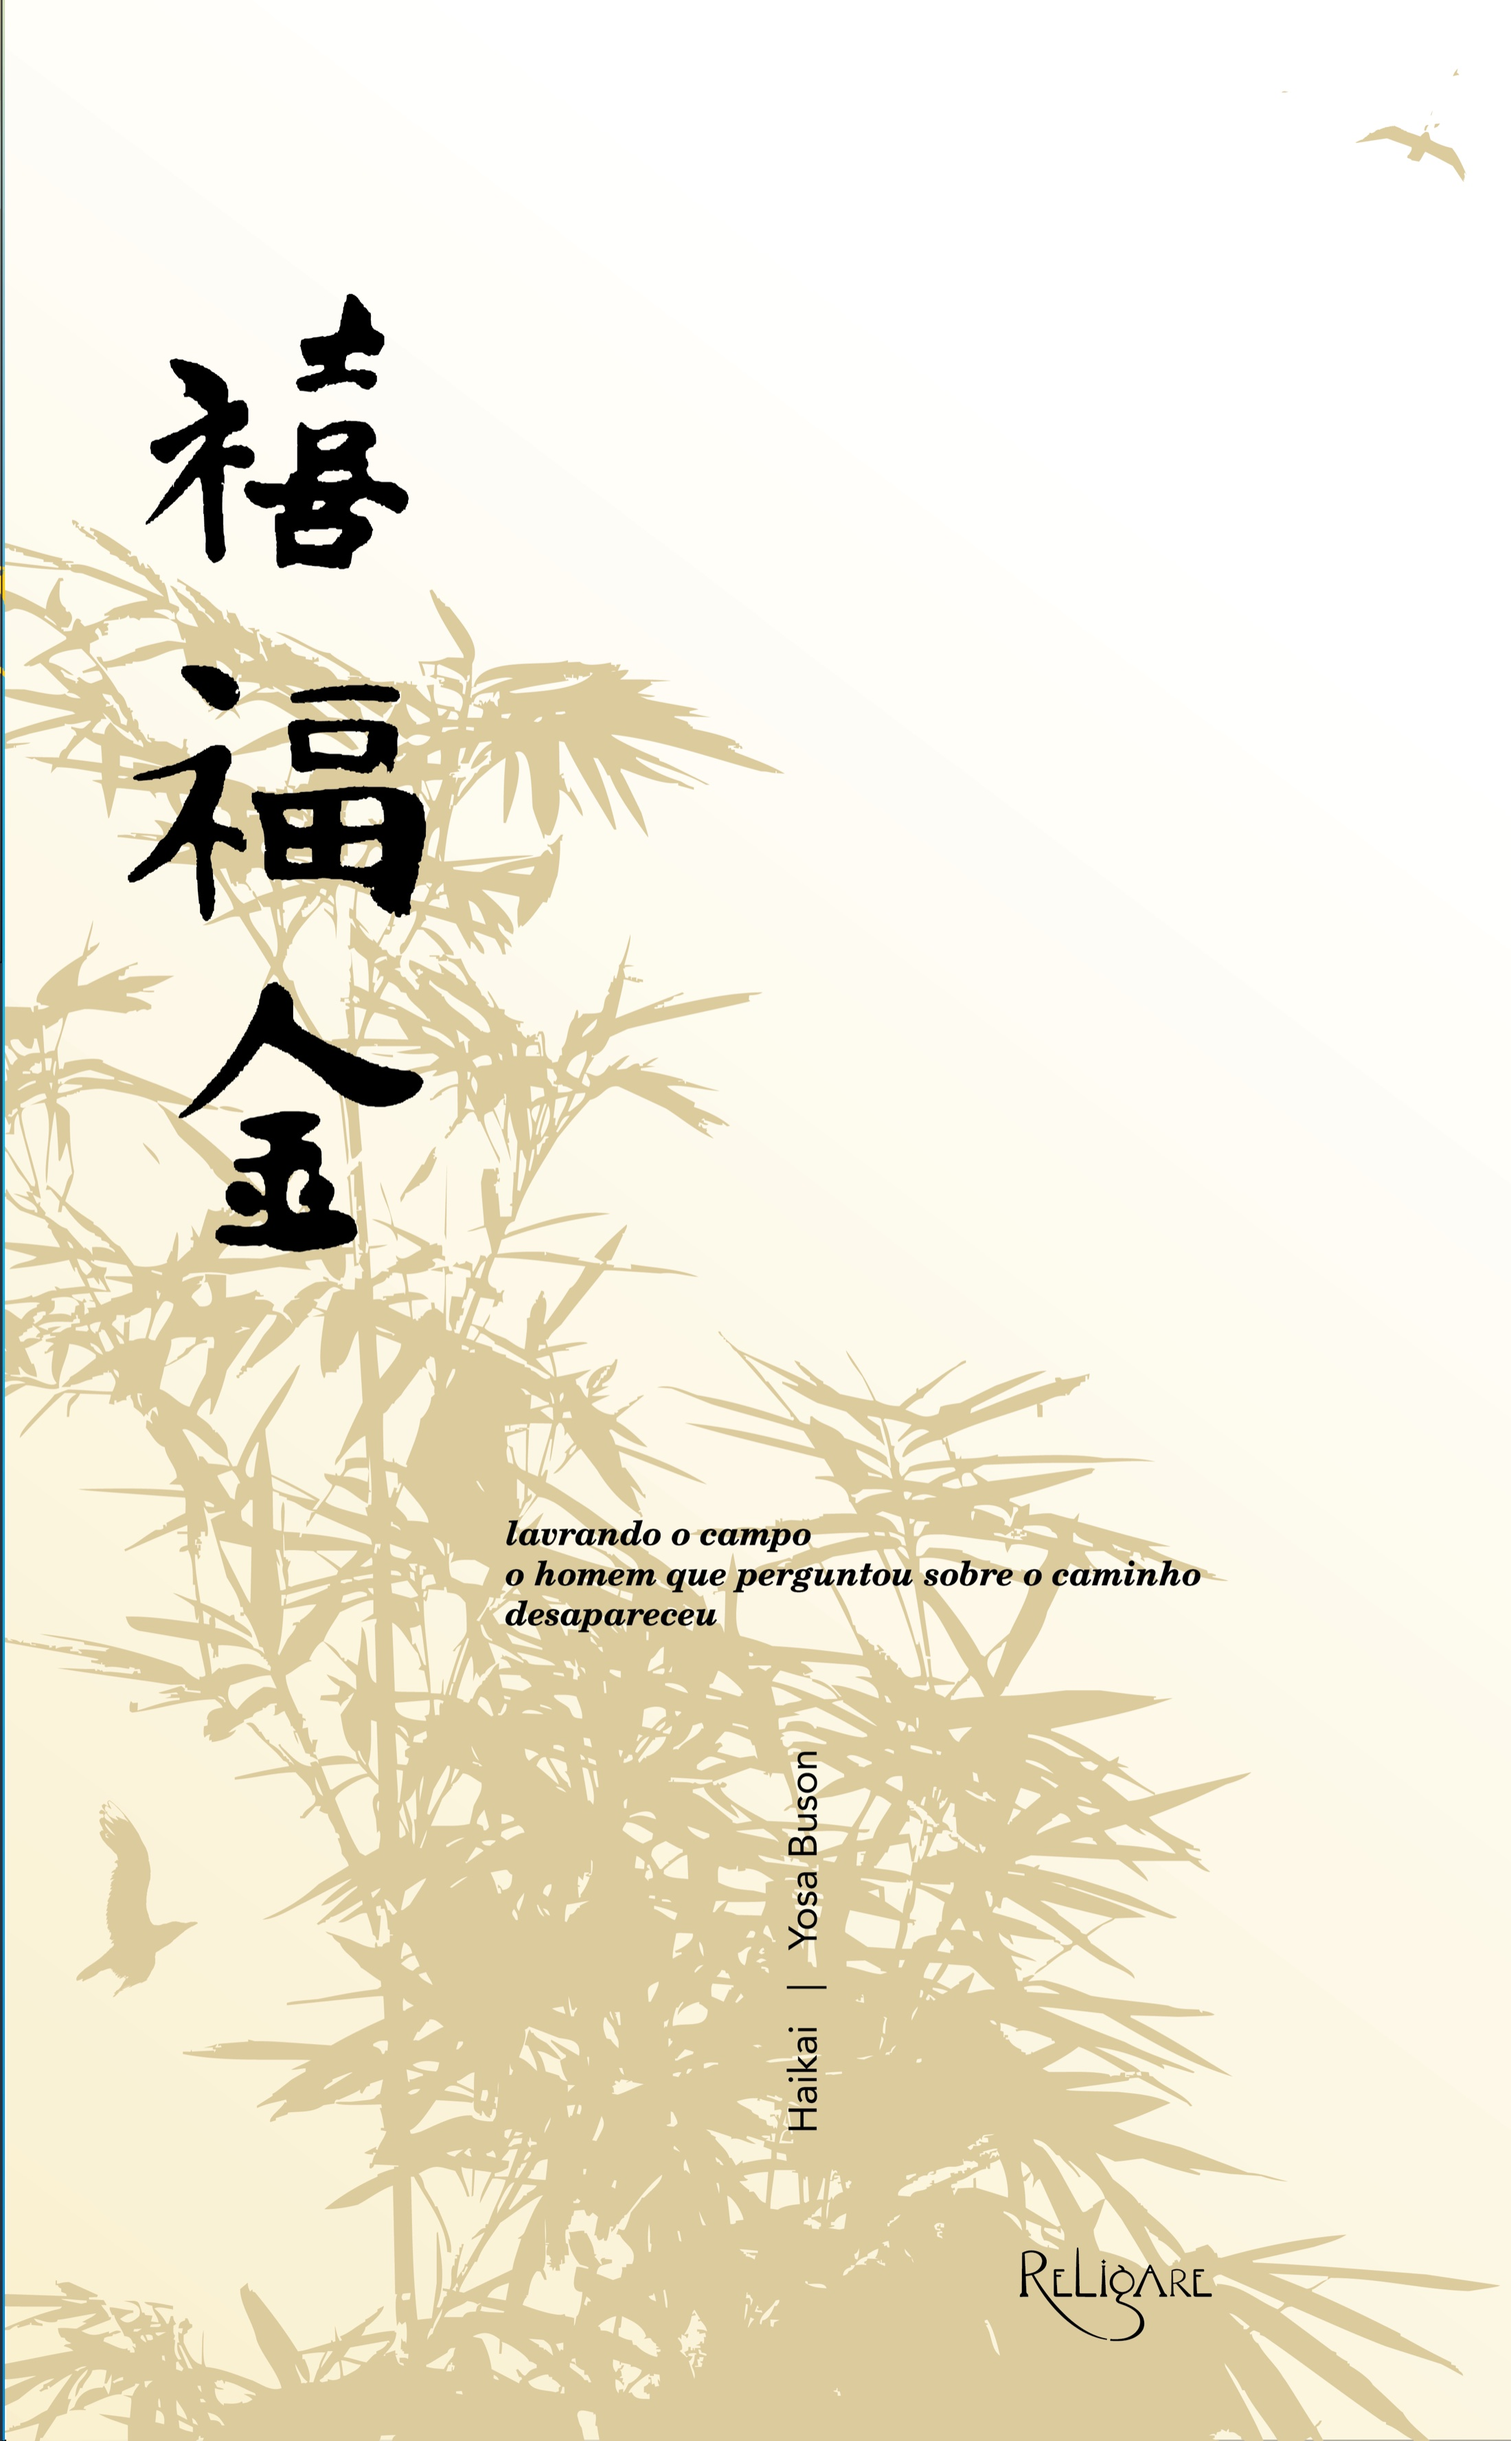
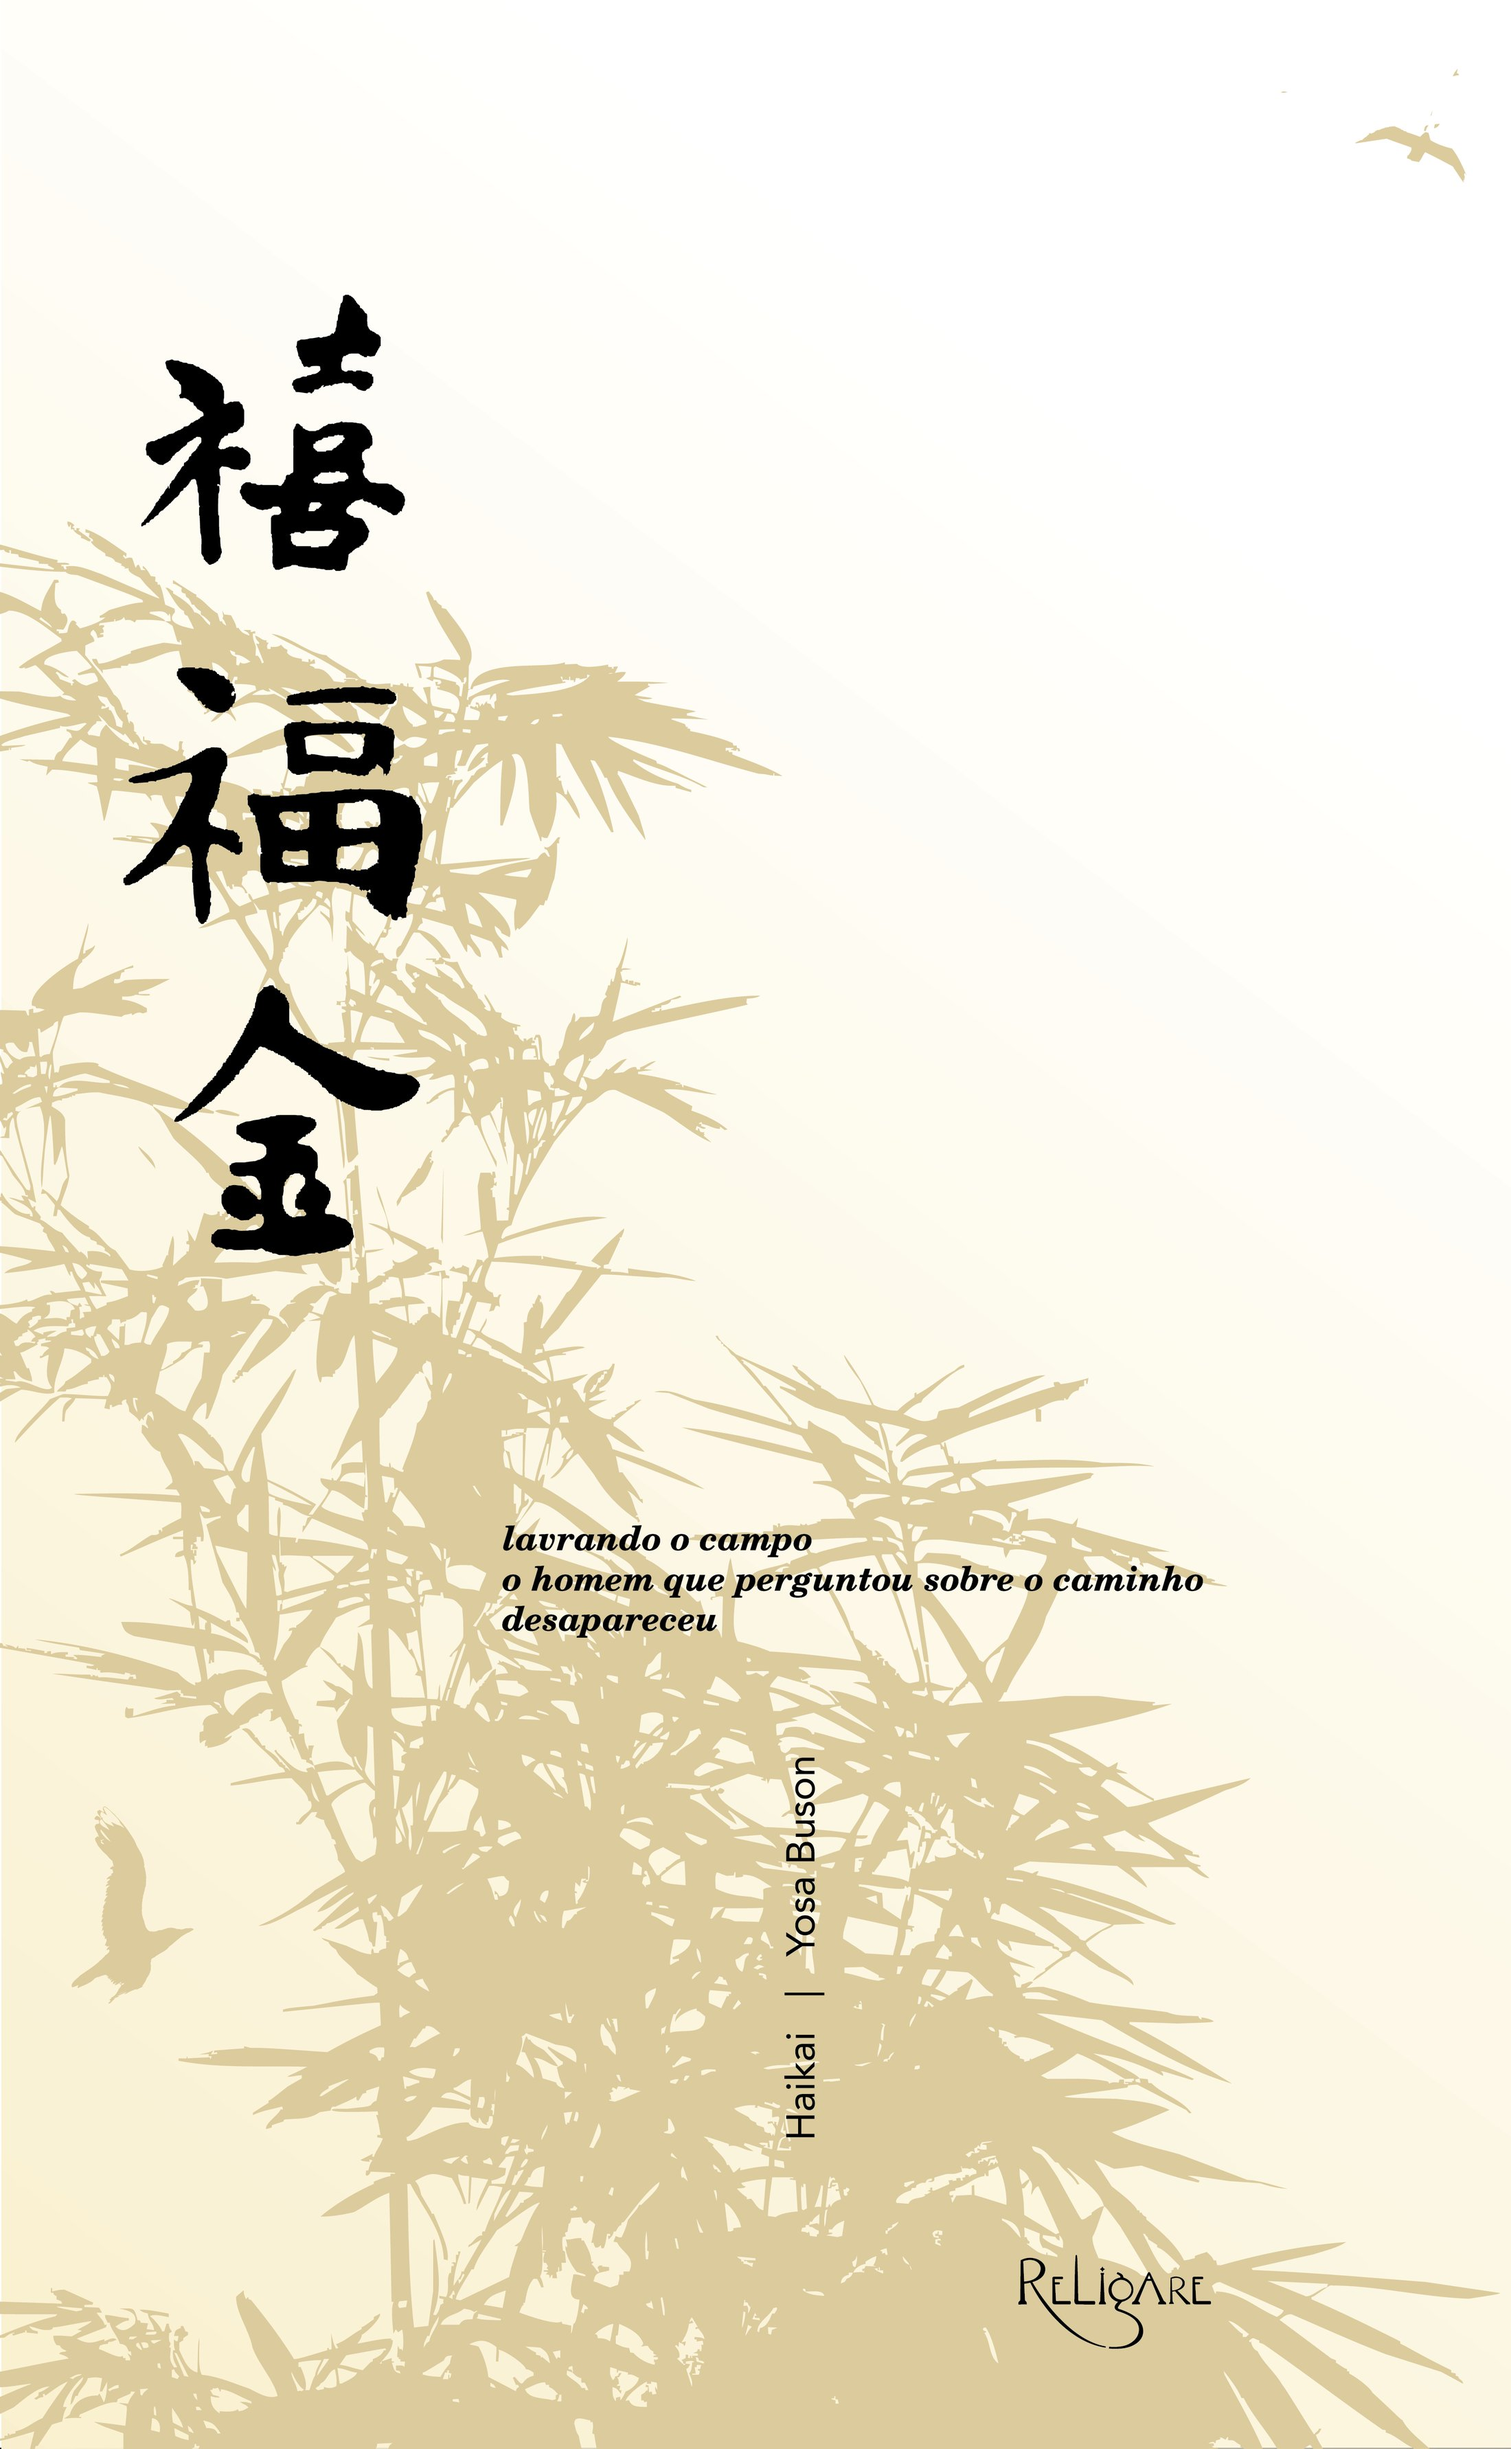
Reexporta imagem do pôster O Caminho sem o filete na lateral

diff --git a/pecas/o-caminho.html b/pecas/o-caminho.html
@@ -42,7 +42,7 @@
   <main id="top" class="piece-main">
     <section class="piece-poster-wrap">
 
-      <img class="piece-poster" src="../assets/poster-o-caminho.jpg" data-full="../assets/poster-o-caminho-grande.jpg" width="1200" height="1938" alt="Pôster O Caminho: bambus em tom de areia sobre fundo claro, pássaros em voo, os ideogramas 幸福人生 em caligrafia preta e o haicai de Yosa Buson." />
+      <img class="piece-poster" src="../assets/poster-o-caminho.jpg" data-full="../assets/poster-o-caminho-grande.jpg" width="1200" height="1944" alt="Pôster O Caminho: bambus em tom de areia sobre fundo claro, pássaros em voo, os ideogramas 幸福人生 em caligrafia preta e o haicai de Yosa Buson." />
 
     </section>
 

diff --git a/pecas/index.html b/pecas/index.html
@@ -128,7 +128,7 @@
 
         <a class="pecas-card pecas-card--poster" href="o-caminho.html">
           <div class="pecas-card-image">
-            <img src="../assets/poster-o-caminho.jpg" width="1200" height="1938" loading="lazy" alt="Pôster O Caminho: bambus em tom de areia sobre fundo claro, pássaros em voo e os ideogramas 幸福人生 em caligrafia preta." />
+            <img src="../assets/poster-o-caminho.jpg" width="1200" height="1944" loading="lazy" alt="Pôster O Caminho: bambus em tom de areia sobre fundo claro, pássaros em voo e os ideogramas 幸福人生 em caligrafia preta." />
           </div>
           <div class="pecas-card-copy">
             <p class="pecas-card-collection">Coleção "Caminho"</p>
